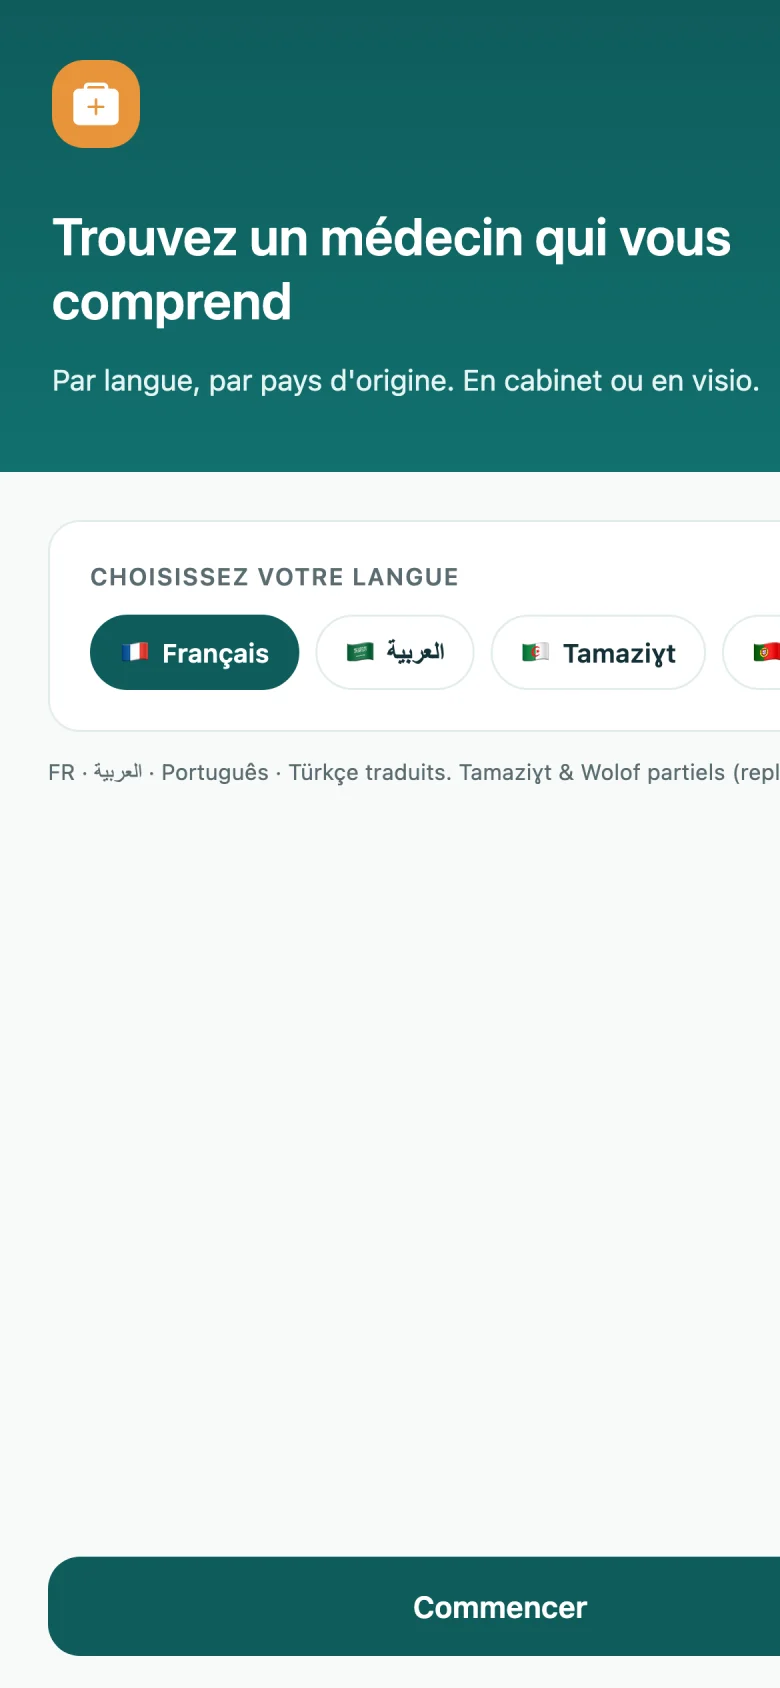
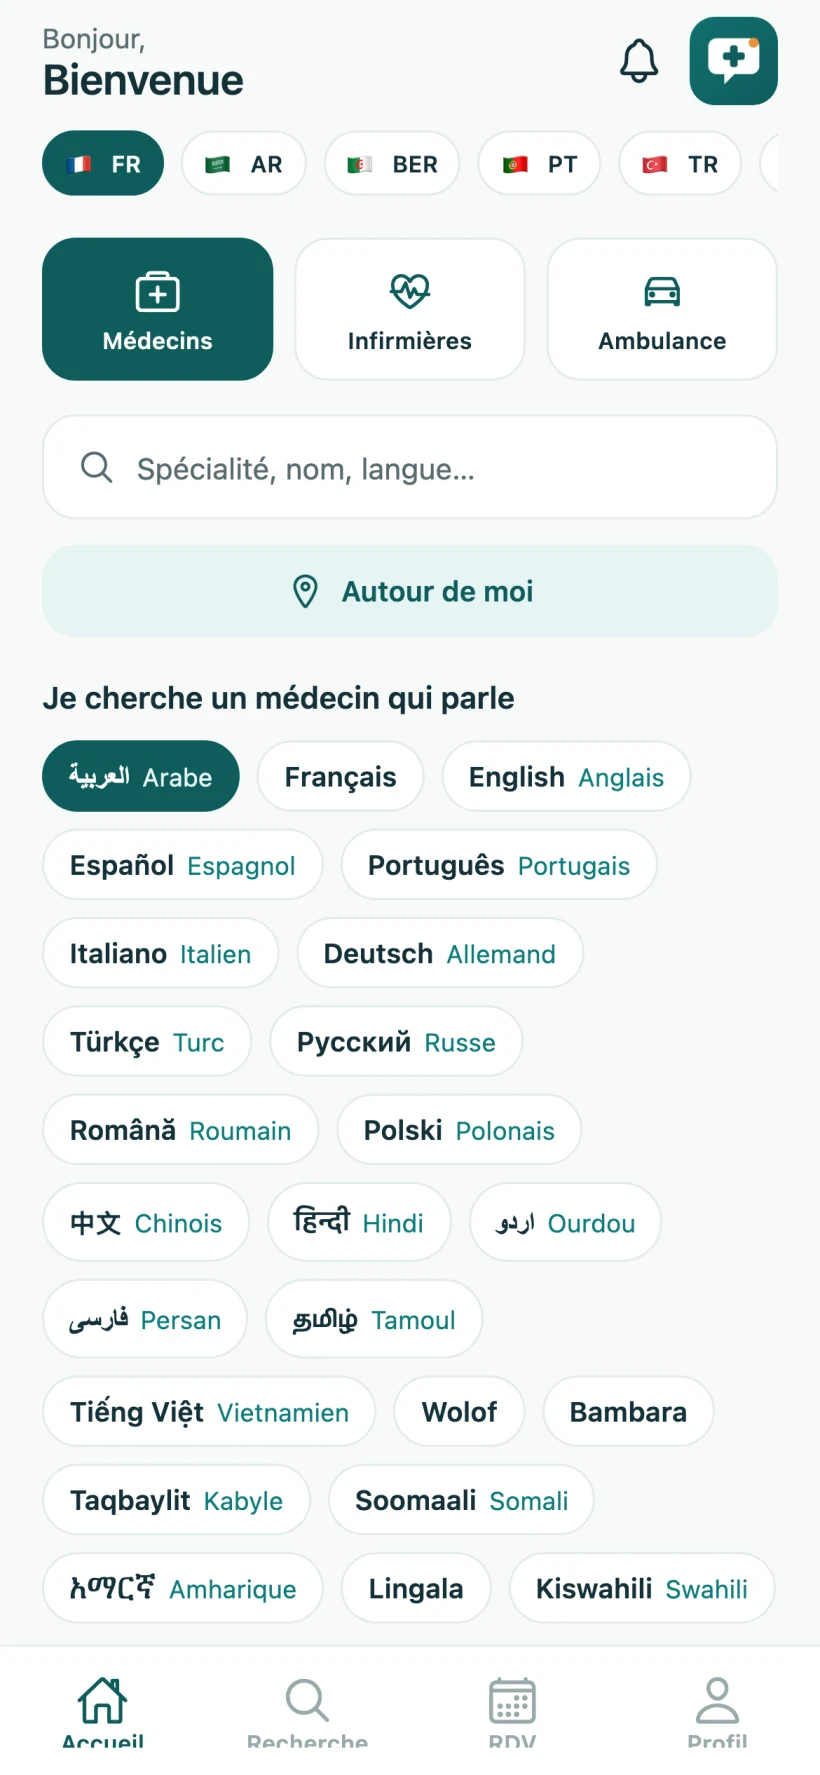
fix(home): use real Tabib app screen (past onboarding) + accurate copy

diff --git a/app/page.tsx b/app/page.tsx
@@ -331,7 +331,7 @@ export default function HomePage() {
                 <div className="overflow-hidden rounded-[1.9rem]">
                   <Image
                     src="/images/work/tabib.webp"
-                    alt="Écran d'accueil de l'application mobile Tabib, recherche de médecin par langue"
+                    alt="Écran d'accueil de l'application Tabib : médecins, infirmières et ambulance, recherche par langue parlée"
                     width={390}
                     height={844}
                     sizes="260px"
@@ -346,10 +346,10 @@ export default function HomePage() {
                 Tabib, trouver un médecin qui vous comprend
               </h3>
               <p className="mt-2 max-w-md text-[14px] leading-relaxed text-muted">
-                Application de mise en relation patient-médecin par langue et pays
-                d&apos;origine, en cabinet ou en visio. Interface pensée pour le
-                mobile, traduite en plusieurs langues dont l&apos;arabe et le
-                portugais.
+                Application santé pour trouver un médecin, une infirmière ou une
+                ambulance qui parle votre langue. Recherche par spécialité,
+                géolocalisation et plus de vingt langues parlées, du français au
+                wolof.
               </p>
               <a
                 href="https://tabib-web.vercel.app/"